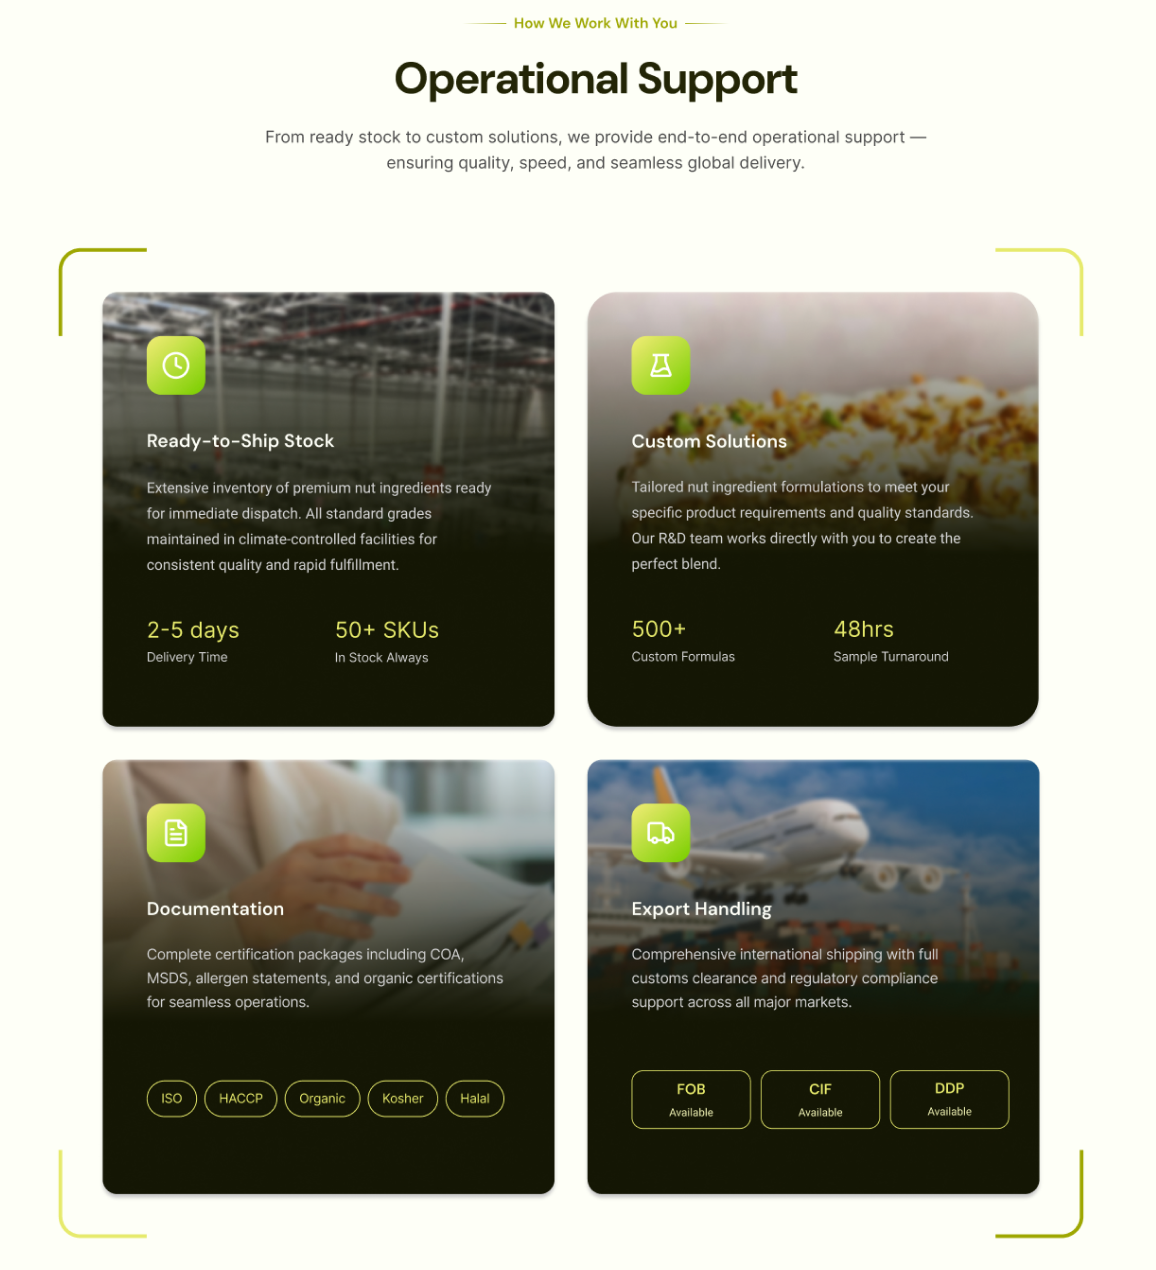
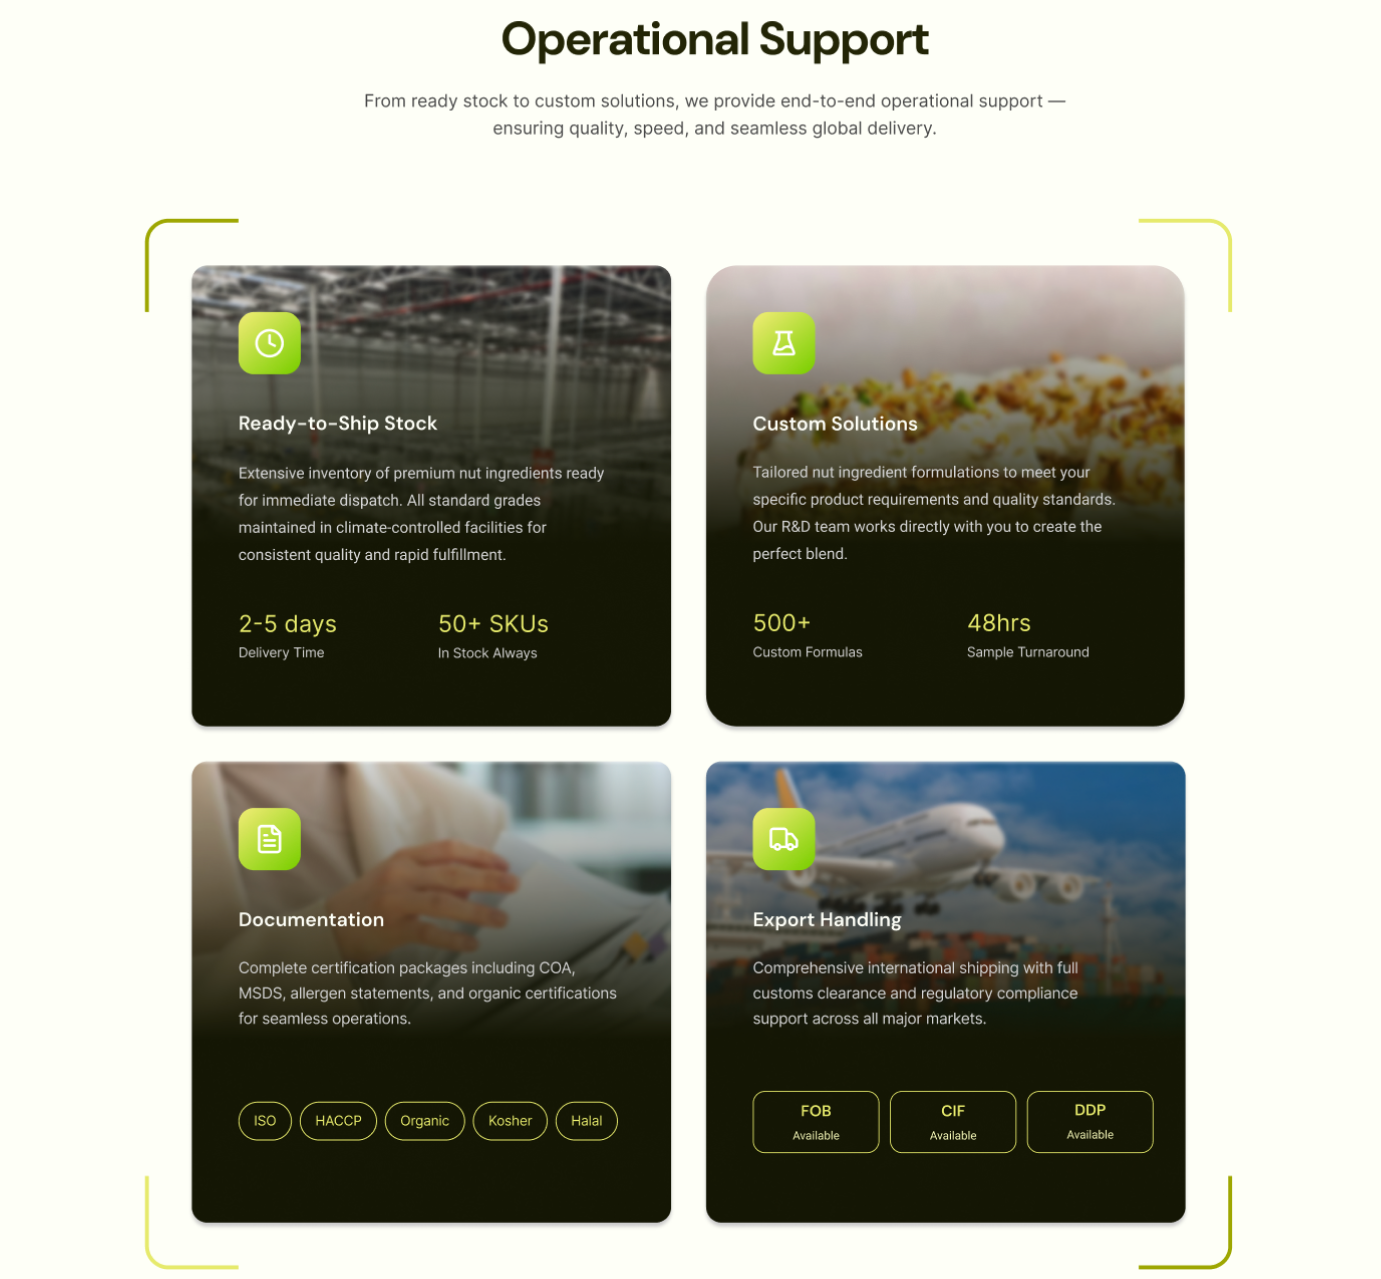
stat-number font adjustment minor

diff --git a/ux-nutoast.css b/ux-nutoast.css
@@ -59,7 +59,7 @@
 .stat-number {
     display: block;
     font-family: var(--header-text-font);
-    font-size: 3.2rem;
+    font-size: 2.6rem;
     font-weight: 700;
     color: var(--green-base);
     line-height: 1;
@@ -526,7 +526,7 @@
     }
 
     .stat-number {
-        font-size: 2.4rem;
+        font-size: 2rem;
     }
 
     .deliverables-grid .barrier-item {